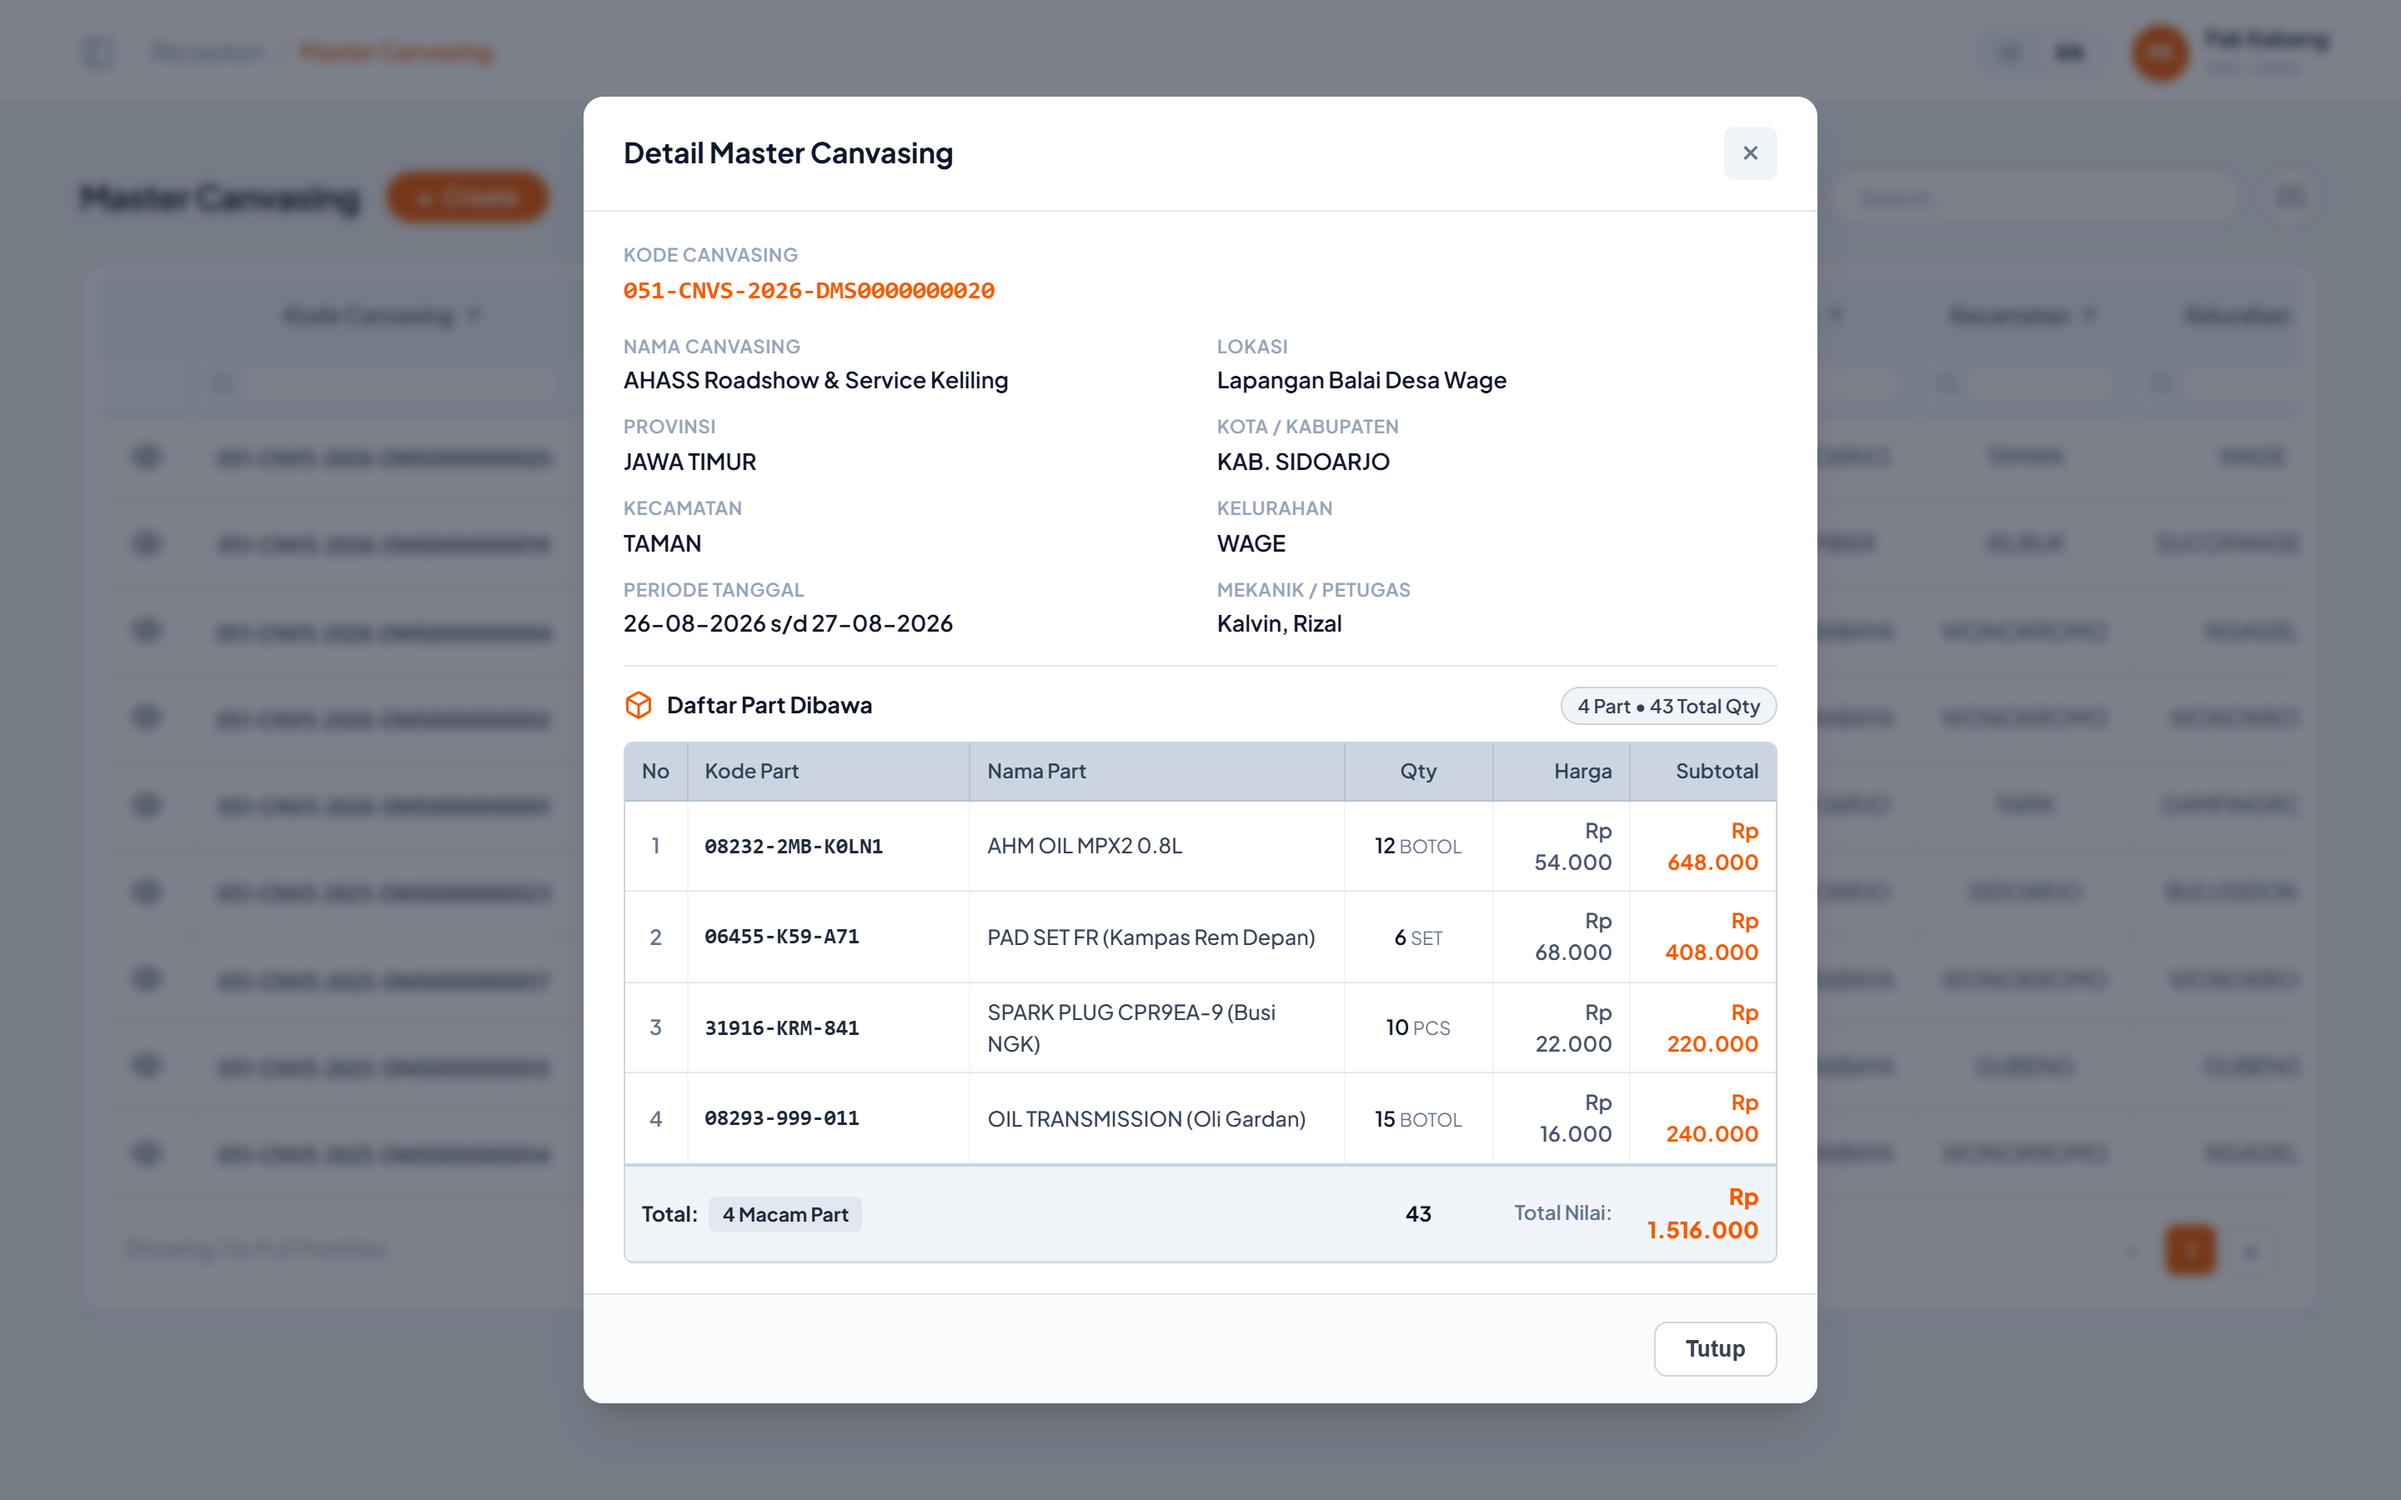
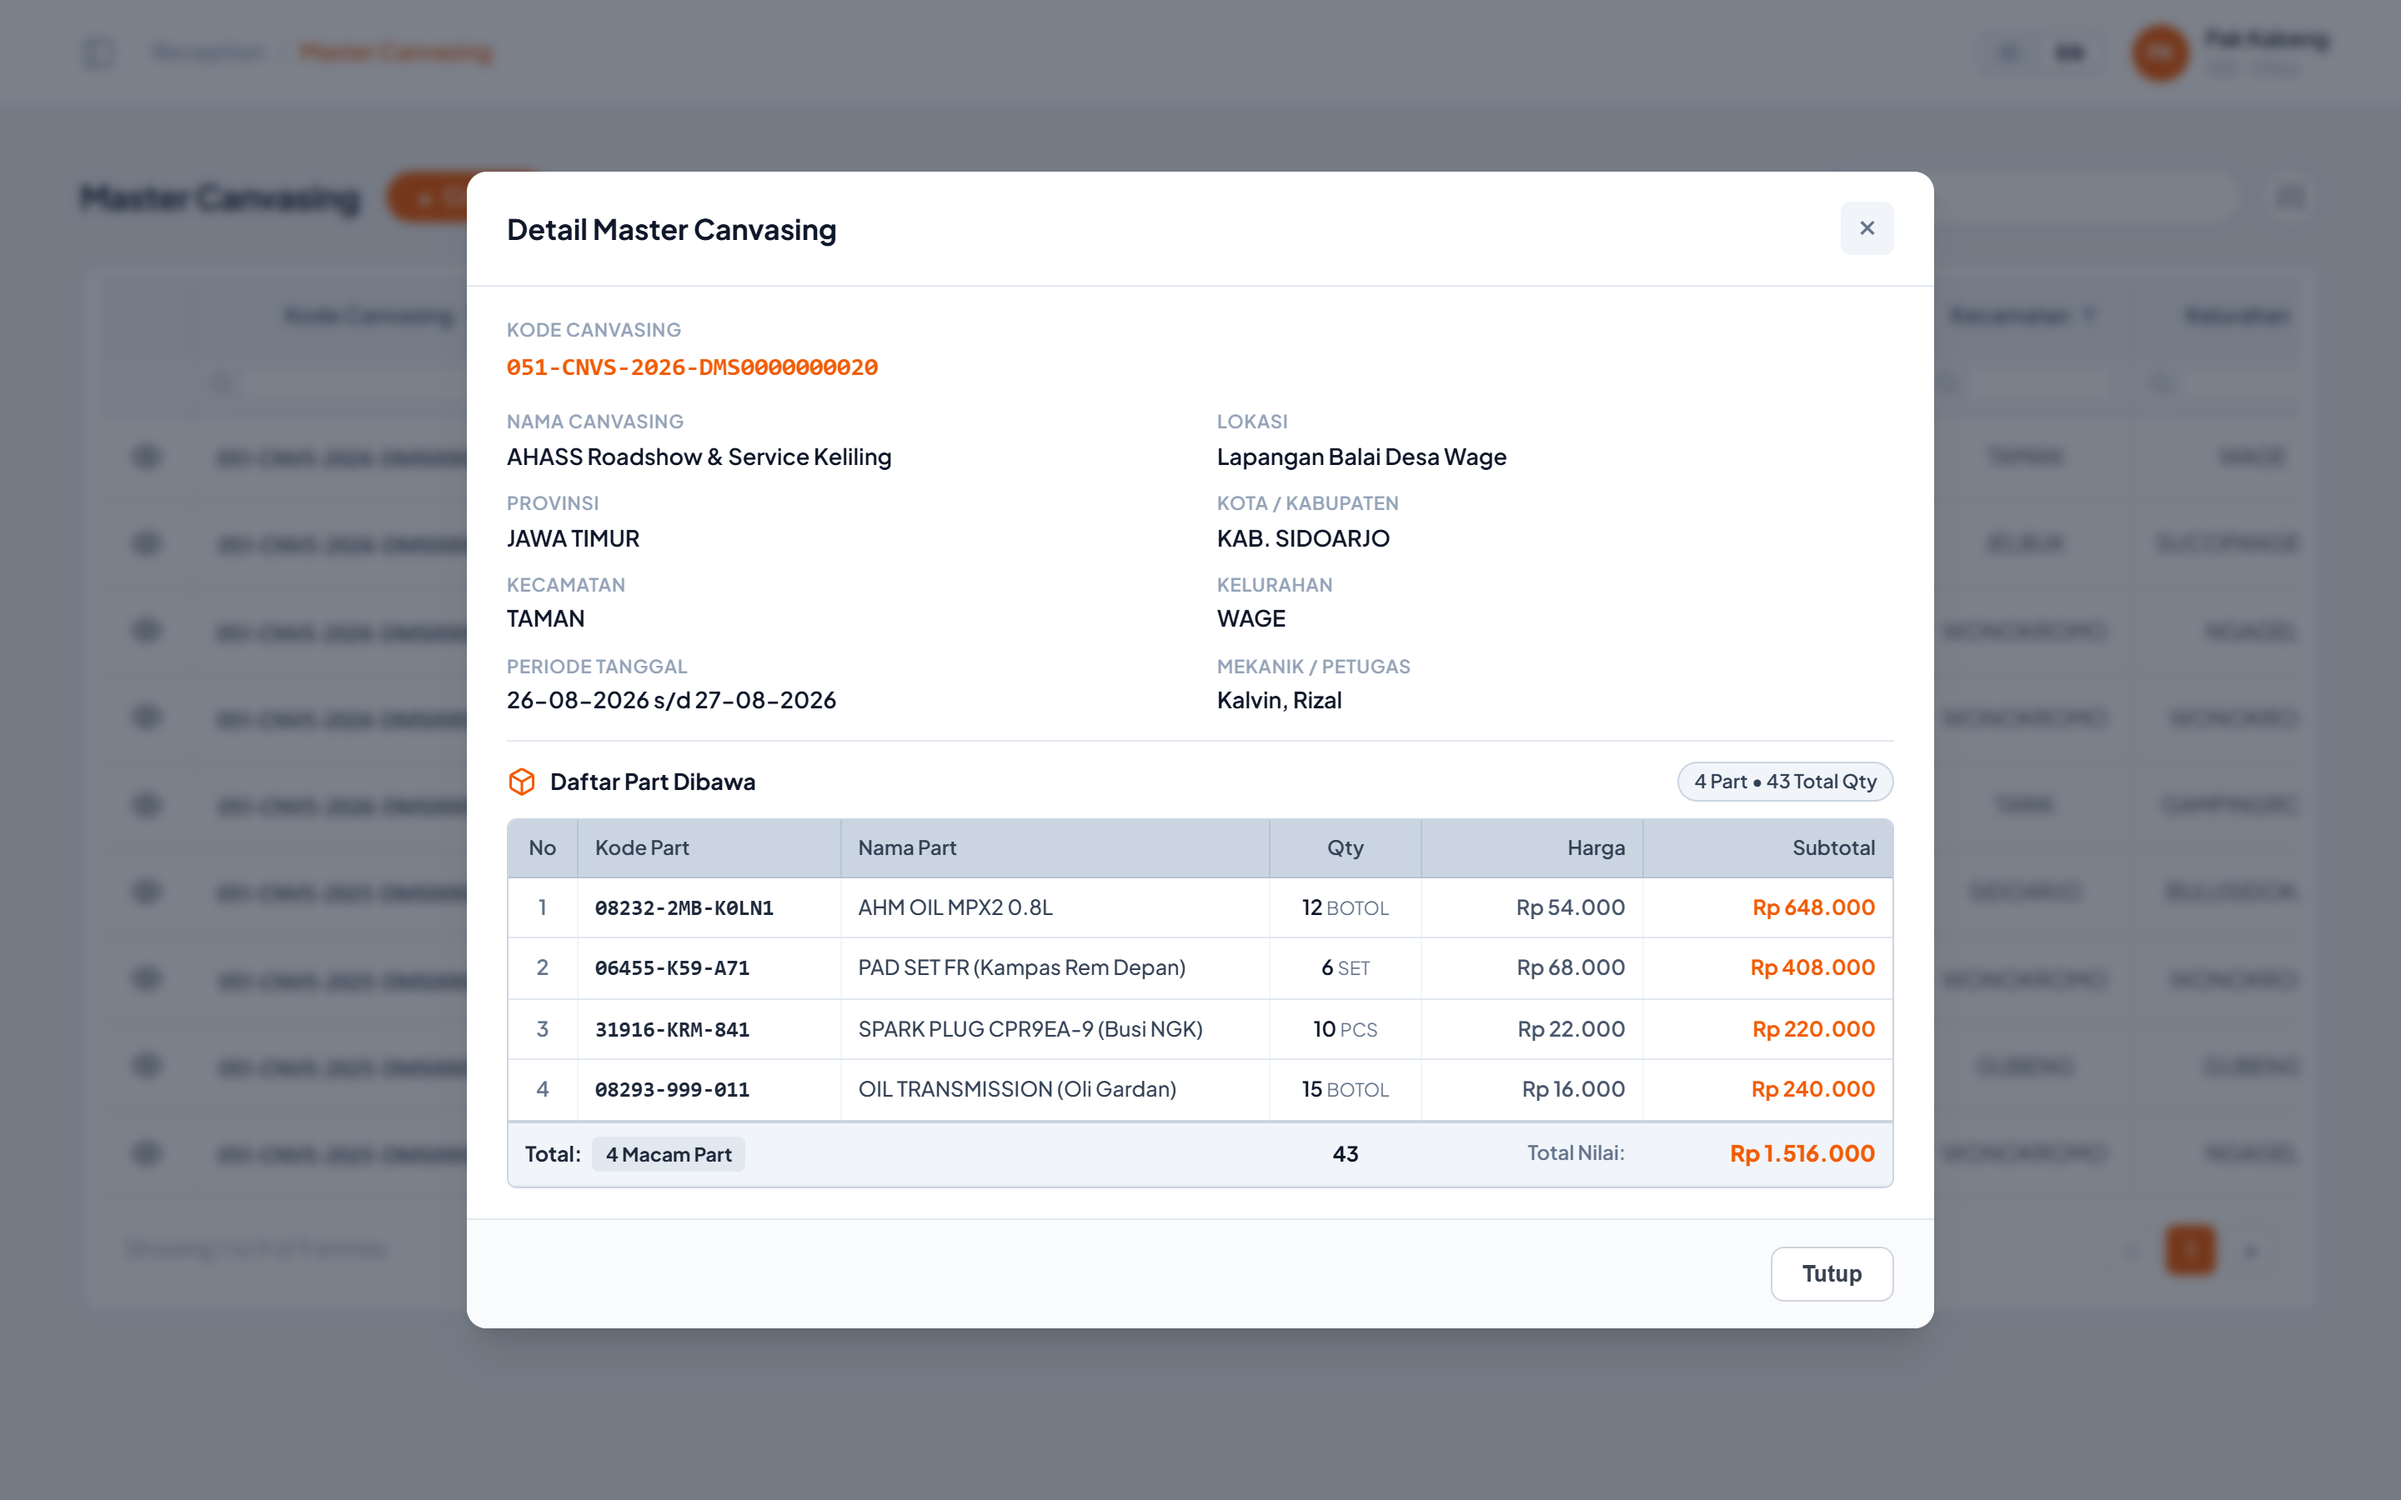
style(master-canvasing): lebarkan modal Detail agar kolom nominal lega
- .modal-card.detail-card: max-width 740px -> 880px
- Proporsi kolom tabel Daftar Part Dibawa diseimbangkan ulang:
  Kode Part 25%->19%, Nama Part 33%->31%, Qty 13%->11%,
  Harga 12%->16%, Subtotal 12%->18%
- white-space: nowrap pada sel Harga, Subtotal, dan Total Nilai
  sehingga nominal ratusan ribu/jutaan tidak pecah ke baris baru
- Dokumentasi: perbarui baris TABLE-Detail Part Dibawa dan tambah
  baris LAYOUT-Modal Detail pada master-canvasing.md
- Regenerasi screenshot master-canvasing-02-detail-modal.png

Changed region(s): [[0.1875, 0.0622, 0.8125, 0.9333]]

diff --git a/Master Canvasing/app.js b/Master Canvasing/app.js
@@ -615,8 +615,8 @@ function viewCanvasingDetail(id) {
           <td style="font-weight: 600; color: #1e293b; font-family: monospace; font-size: 13px;">${p.code}</td>
           <td style="color: #334155; font-weight: 500;">${p.name}</td>
           <td style="text-align: center; font-weight: 600; color: #0f172a;">${p.qty} <span style="font-size: 11px; color: #64748b; font-weight: normal;">${p.satuan || ''}</span></td>
-          <td style="text-align: right; font-weight: 600; color: #475569;">${p.harga}</td>
-          <td style="text-align: right; font-weight: 700; color: var(--primary);">${formatRupiah(subtotalNum)}</td>
+          <td style="text-align: right; font-weight: 600; color: #475569; white-space: nowrap;">${p.harga}</td>
+          <td style="text-align: right; font-weight: 700; color: var(--primary); white-space: nowrap;">${formatRupiah(subtotalNum)}</td>
         </tr>
       `;
     }).join('');
@@ -627,11 +627,11 @@ function viewCanvasingDetail(id) {
           <thead>
             <tr>
               <th style="width: 5%; text-align: center;">No</th>
-              <th style="width: 25%; text-align: left;">Kode Part</th>
-              <th style="width: 33%; text-align: left;">Nama Part</th>
-              <th style="width: 13%; text-align: center;">Qty</th>
-              <th style="width: 12%; text-align: right;">Harga</th>
-              <th style="width: 12%; text-align: right;">Subtotal</th>
+              <th style="width: 19%; text-align: left;">Kode Part</th>
+              <th style="width: 31%; text-align: left;">Nama Part</th>
+              <th style="width: 11%; text-align: center;">Qty</th>
+              <th style="width: 16%; text-align: right;">Harga</th>
+              <th style="width: 18%; text-align: right;">Subtotal</th>
             </tr>
           </thead>
           <tbody>
@@ -648,7 +648,7 @@ function viewCanvasingDetail(id) {
               <td style="text-align: right; font-size: 12px; color: #64748b; font-weight: 600;">
                 Total Nilai:
               </td>
-              <td style="text-align: right; font-weight: 800; color: var(--primary); font-size: 13.5px;">
+              <td style="text-align: right; font-weight: 800; color: var(--primary); font-size: 13.5px; white-space: nowrap;">
                 ${formatRupiah(totalNilai)}
               </td>
             </tr>

diff --git a/Master Canvasing/styles.css b/Master Canvasing/styles.css
@@ -1193,7 +1193,7 @@ input[type="checkbox"]:focus-visible + .custom-checkbox {
 }
 
 .modal-card.detail-card {
-  max-width: 740px;
+  max-width: 880px;
   max-height: 94vh;
   width: 95%;
 }

diff --git a/Master Canvasing/docs/master-canvasing.md b/Master Canvasing/docs/master-canvasing.md
@@ -55,9 +55,10 @@ Modul ini dijalankan di dalam **iframe** pada layout shell portal (`index.html`)
 |--------------|----------------|----------|-----------------|-----------|-----|-------------------|--------|------------|------------|
 |              |                |          |                 |           |     |                   |        |            |            |
 | LABEL-Detail Master Canvasing | LABEL | Menampilkan detail data Master Canvasing pada baris yang dipilih | Field yang ditampilkan: <br> * **Kode Canvasing** <br> * **Nama Canvasing** <br> * **Lokasi** <br> * **Provinsi** <br> * **Kota / Kabupaten** <br> * **Kecamatan** <br> * **Kelurahan** <br> * **Periode Tanggal** (format `<dari> s/d <sampai>`) <br> * **Mekanik / Petugas** (daftar nama dipisah koma)<br><br>Seluruh field bersifat **read-only** | | | | | | |
-| TABLE-Detail Part Dibawa | TABLE | Menampilkan informasi part apa saja yang sudah di-setup saat create canvasing | Kolom yang ditampilkan: <br> * **No** <br> * **Kode Part** <br> * **Nama Part** <br> * **Qty** (beserta satuan) <br> * **Harga Satuan** <br> * **Subtotal** (Qty × Harga)<br><br>Dilengkapi: <br> * Badge jumlah total macam part & total kuantitas item <br> * Baris total (Total macam part, Total Qty, dan Total estimasi nilai part) <br> * Empty state informatif bila belum ada part yang di-setup | | | | | | |
+| TABLE-Detail Part Dibawa | TABLE | Menampilkan informasi part apa saja yang sudah di-setup saat create canvasing | Kolom yang ditampilkan (beserta proporsi lebar): <br> * **No** (5%) <br> * **Kode Part** (19%) <br> * **Nama Part** (31%) <br> * **Qty** (11%, beserta satuan) <br> * **Harga Satuan** (16%) <br> * **Subtotal** (18%, Qty × Harga)<br><br>Kolom **Harga Satuan**, **Subtotal**, dan **Total Nilai** memakai `white-space: nowrap` sehingga nominal ratusan ribu/jutaan tidak terpotong ke baris baru<br><br>Dilengkapi: <br> * Badge jumlah total macam part & total kuantitas item <br> * Baris total (Total macam part, Total Qty, dan Total estimasi nilai part) <br> * Empty state informatif bila belum ada part yang di-setup | | | | | | |
 | BUTTON-Close (X) | BUTTON | Menutup modal detail | Modal juga tertutup saat user mengklik area backdrop di luar kartu modal | | | | | | |
 | BUTTON-Tutup | BUTTON | Menutup modal detail | Sama dengan tombol Close (X) | | | | | | |
+| LAYOUT-Modal Detail | LAYOUT | Mengatur ukuran kartu modal detail | Kartu modal (`.modal-card.detail-card`) memakai `max-width: 880px`, `width: 95%`, `max-height: 94vh` — lebih lebar dari modal standar (680px) agar kolom nominal **Harga** dan **Subtotal** tetap lega saat nominal mencapai ratusan ribu hingga jutaan rupiah | | | | | | |
 
 ---
 
